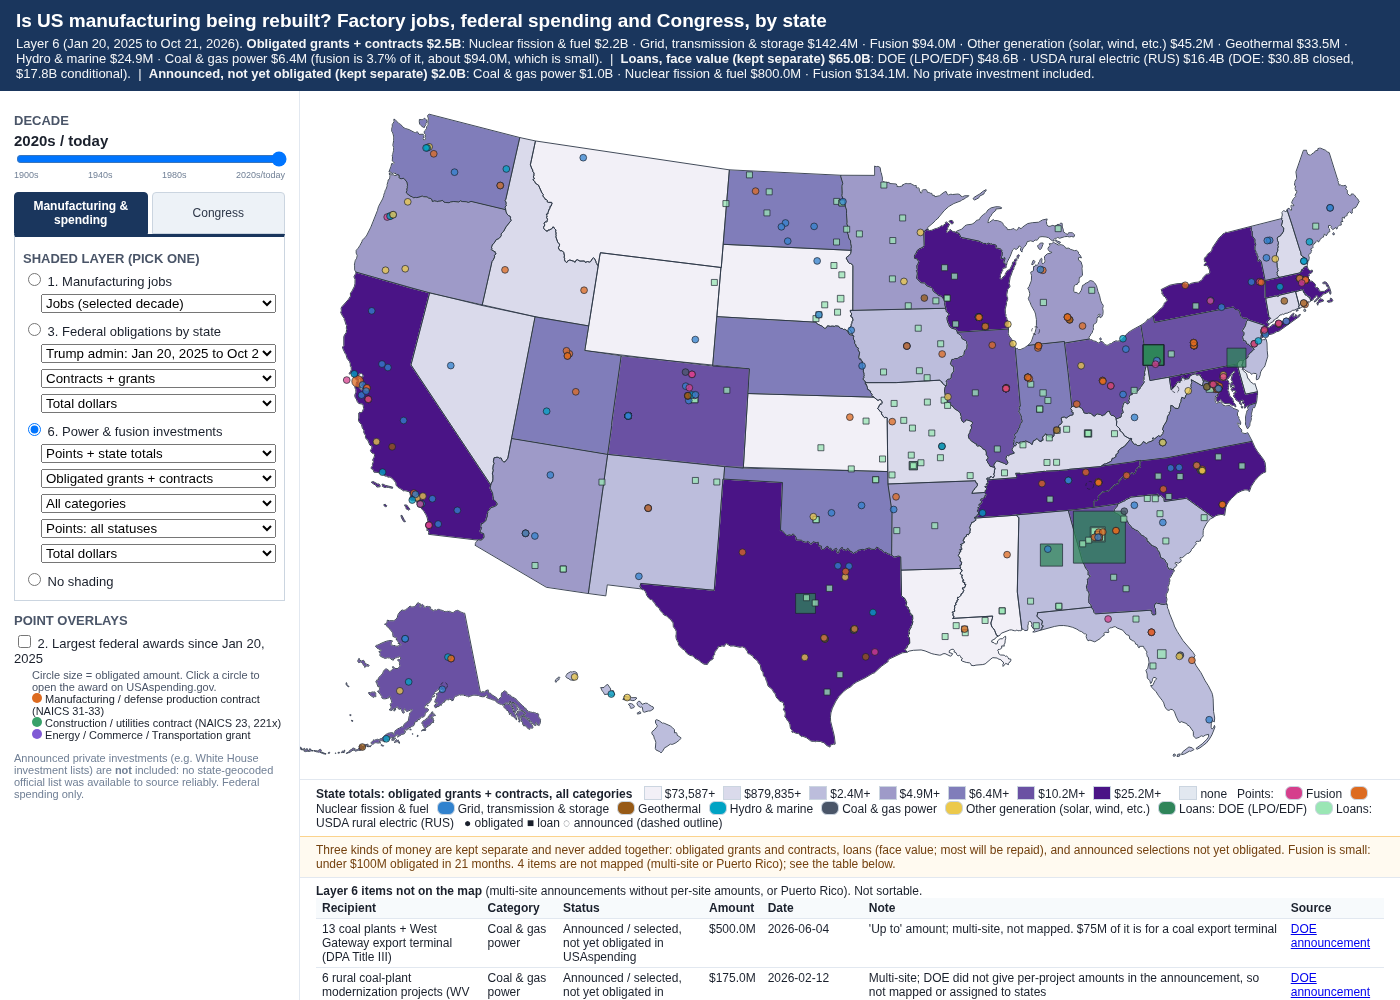
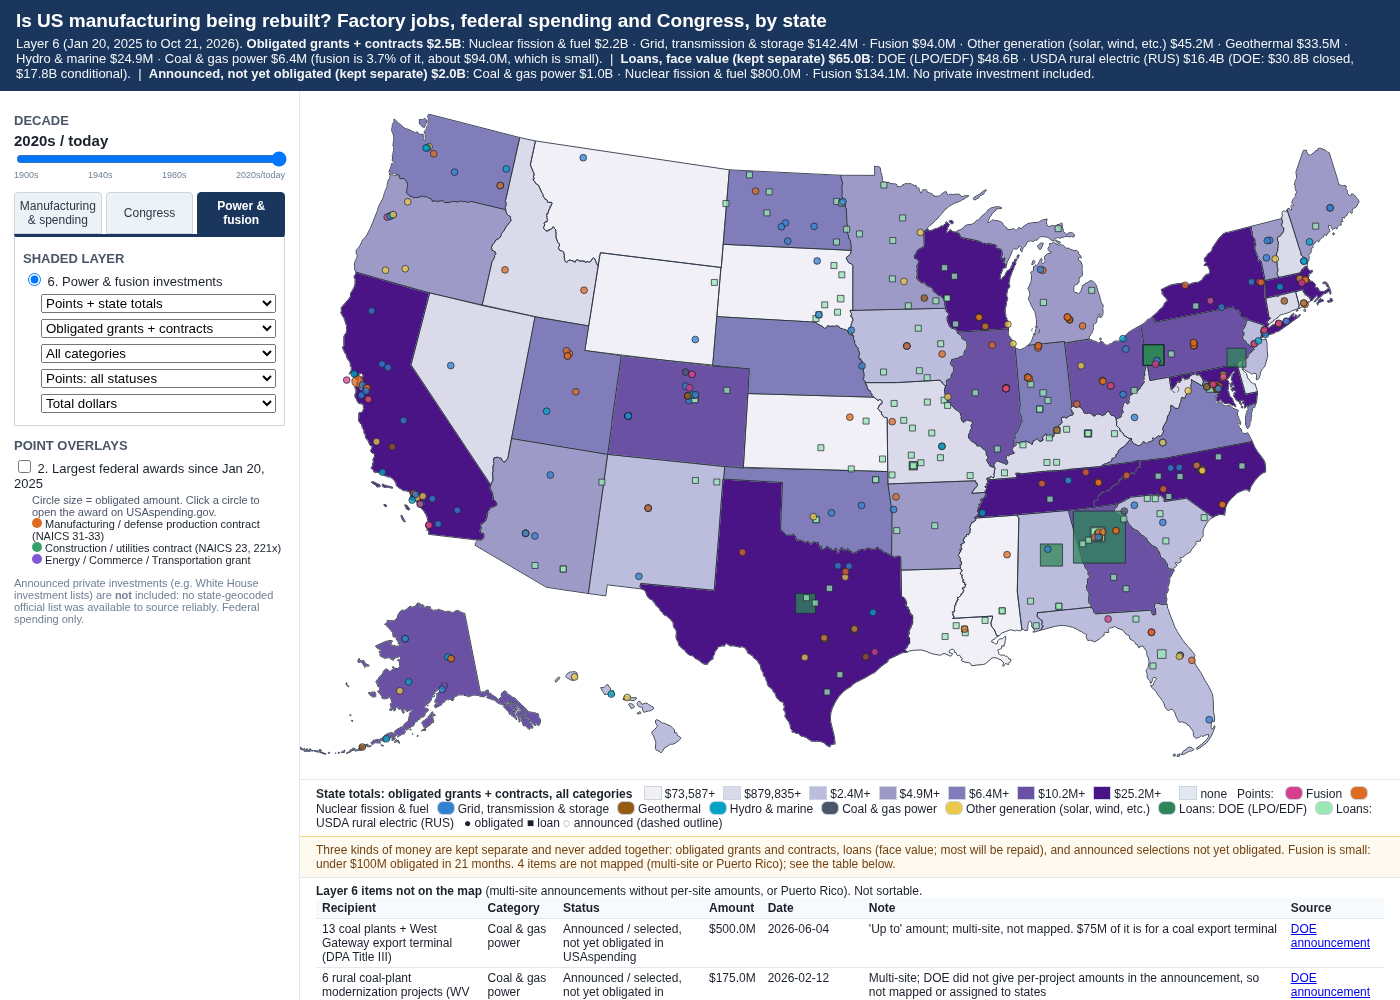
Move Power & fusion (Layer 6) to its own tab

Changed region(s): [[0.0, 0.186, 0.215, 0.806]]

diff --git a/build/template.html b/build/template.html
@@ -49,7 +49,7 @@ select{width:100%;margin:2px 0 4px}
  <div id="decadeLbl"></div>
  <input type="range" id="decade" min="1900" max="2020" step="10" value="2020">
  <div id="ticks"><span>1900s</span><span>1940s</span><span>1980s</span><span>2020s/today</span></div>
- <div id="tabs"><button type="button" class="tab active" data-tab="mfg" title="Manufacturing jobs, federal spending, and power &amp; fusion investments">Manufacturing &amp; spending</button><button type="button" class="tab" data-tab="congress" title="US Senate and House party control by state and district">Congress</button></div>
+ <div id="tabs"><button type="button" class="tab active" data-tab="mfg" title="Manufacturing jobs and federal spending">Manufacturing &amp; spending</button><button type="button" class="tab" data-tab="congress" title="US Senate and House party control by state and district">Congress</button><button type="button" class="tab" data-tab="power" title="Power &amp; fusion investments since Jan 20, 2025 (Layer 6)">Power &amp; fusion</button></div>
  <div class="tabpane" id="tab-mfg">
  <h3>Shaded layer (pick one)</h3>
  <label><input type="radio" name="layer" value="mfg" checked> 1. Manufacturing jobs</label>
@@ -62,13 +62,6 @@ select{width:100%;margin:2px 0 4px}
    <select id="period"><option value="trump2">Trump admin: Jan 20, 2025 to Oct 21, 2026</option><option value="2020pre">Comparison: Jan 1, 2020 to Jan 19, 2025</option></select>
    <select id="measure"><option value="contracts_plus_grants">Contracts + grants</option><option value="contracts">Contracts only</option><option value="grants">Grants only</option><option value="all_award_types">All award types (incl. direct payments, loans)</option></select>
    <select id="scale"><option value="total">Total dollars</option><option value="percap">Per capita</option><option value="permonth">Dollars per month (compare periods)</option></select></div>
- <label id="pwLbl"><input type="radio" name="layer" value="power"> 6. Power &amp; fusion investments</label>
- <div id="powerOpts" style="margin-left:18px">
-   <select id="pwView" title="Points only, or points plus a per-state choropleth"><option value="both">Points + state totals</option><option value="points">Points only</option><option value="state">State totals only</option></select>
-   <select id="pwMeasure" title="Which money the state shading sums; the three are never added together"><option value="obl">Obligated grants + contracts</option><option value="loan">Loans (face value)</option><option value="ann">Announced, not yet obligated</option></select>
-   <select id="pwCat" title="Filter points and state totals by category"><option value="all">All categories</option></select>
-   <select id="pwPts" title="Which award statuses to show as points"><option value="all">Points: all statuses</option><option value="obl">Points: obligated only</option><option value="loan">Points: loans only</option><option value="ann">Points: announced only</option></select>
-   <select id="pwScale" title="State totals in dollars or per person"><option value="total">Total dollars</option><option value="percap">Per capita</option></select></div>
  <label><input type="radio" name="layer" value="none"> No shading</label>
  </div>
  <div class="tabpane" id="tab-congress" style="display:none">
@@ -77,6 +70,16 @@ select{width:100%;margin:2px 0 4px}
  <label><input type="radio" name="layer" value="house"> 5. US House, state delegations</label>
  <label id="cdLbl"><input type="radio" name="layer" value="cds"> 5b. US House, by district (119th)</label>
  <label><input type="radio" name="layer" value="none" data-tab="congress"> No shading</label>
+ </div>
+ <div class="tabpane" id="tab-power" style="display:none">
+ <h3>Shaded layer</h3>
+ <label id="pwLbl"><input type="radio" name="layer" value="power"> 6. Power &amp; fusion investments</label>
+ <div id="powerOpts" style="margin-left:18px">
+   <select id="pwView" title="Points only, or points plus a per-state choropleth"><option value="both">Points + state totals</option><option value="points">Points only</option><option value="state">State totals only</option></select>
+   <select id="pwMeasure" title="Which money the state shading sums; the three are never added together"><option value="obl">Obligated grants + contracts</option><option value="loan">Loans (face value)</option><option value="ann">Announced, not yet obligated</option></select>
+   <select id="pwCat" title="Filter points and state totals by category"><option value="all">All categories</option></select>
+   <select id="pwPts" title="Which award statuses to show as points"><option value="all">Points: all statuses</option><option value="obl">Points: obligated only</option><option value="loan">Points: loans only</option><option value="ann">Points: announced only</option></select>
+   <select id="pwScale" title="State totals in dollars or per person"><option value="total">Total dollars</option><option value="percap">Per capita</option></select></div>
  </div>
  <h3>Point overlays</h3>
  <label id="ptLbl"><input type="checkbox" id="points" checked> 2. Largest federal awards since Jan 20, 2025</label>
@@ -258,13 +261,13 @@ function hideTip(){tip.style("display","none")}
 states.on("mousemove",(e,d)=>showTip(e,tipFn(d.properties.STUSPS))).on("mouseout",hideTip);
 circ.on("mousemove",(e,d)=>showTip(e,`<b>${d.recipient}</b><br>${d.agency}${d.sub_agency&&d.sub_agency!=d.agency?" / "+d.sub_agency:""}<br>Obligated: <b>${money(d.amount_obligated)}</b><br>Signed: ${d.date_signed||"n/a"}${d.period_start?" · period start "+d.period_start:""}<br>${d.pop_city||d.pop_county||""}, ${d.pop_state} ${d.pop_zip5||""} (${d.geocode})<br>${d.category}${d.naics?" · NAICS "+d.naics:""}<br><span style="font-size:11px">${d.description}</span><br><i>Award ${d.award_id}. Click to open on USAspending.gov</i>`)).on("mouseout",hideTip);
 // init from hash
-let curTab="mfg"; const CONG=["senate","house","cds"]; const lastLayer={mfg:"mfg",congress:"senate"};
+let curTab="mfg"; const CONG=["senate","house","cds"]; const TAB_OF=L=>CONG.includes(L)?"congress":L=="power"?"power":"mfg"; const lastLayer={mfg:"mfg",congress:"senate",power:"power"};
 function setTab(t,keepLayer){curTab=t;d3.selectAll("#tabs button").classed("active",function(){return this.dataset.tab==t});
- d3.select("#tab-mfg").style("display",t=="mfg"?null:"none");d3.select("#tab-congress").style("display",t=="congress"?null:"none");
- if(!keepLayer){const cur=d3.select("input[name=layer]:checked").property("value");const inTab=t=="congress"?CONG.includes(cur):!CONG.includes(cur);
+ ["mfg","congress","power"].forEach(x=>d3.select("#tab-"+x).style("display",t==x?null:"none"));
+ if(!keepLayer){const cur=d3.select("input[name=layer]:checked").property("value");const inTab=TAB_OF(cur)==t;
   if(!(inTab&&cur!="none"))d3.select(`#tab-${t} input[name=layer][value=${lastLayer[t]}]`).property("checked",true);}}
 d3.selectAll("#tabs button").on("click",function(){const cur=d3.select("input[name=layer]:checked").property("value");if(cur!="none")lastLayer[curTab]=cur;setTab(this.dataset.tab);render()});
-const h=st(); if(h.get("layer")){const L=h.get("layer");const t=h.get("tab")||(CONG.includes(L)?"congress":"mfg");setTab(t,true);d3.select(`#tab-${t} input[name=layer][value=${L}]`).property("checked",true)}
+const h=st(); if(h.get("layer")){const L=h.get("layer");let t=h.get("tab");if(!t||(L!="none"&&TAB_OF(L)!=t)||d3.select(`#tab-${t} input[name=layer][value=${L}]`).empty())t=TAB_OF(L);setTab(t,true);d3.select(`#tab-${t} input[name=layer][value=${L}]`).property("checked",true)}
 ["decade","mfgMode:mode","period","measure","scale","pwView","pwMeasure","pwCat","pwPts","pwScale"].forEach(k=>{const[id,key]=k.split(":");const v=h.get(key||id);if(v)d3.select("#"+id).property("value",v)});
 if(h.get("points")=="0")d3.select("#points").property("checked",false);
 d3.selectAll("input,select").on("input change",render); render();

diff --git a/index.html b/index.html
@@ -49,7 +49,7 @@ select{width:100%;margin:2px 0 4px}
  <div id="decadeLbl"></div>
  <input type="range" id="decade" min="1900" max="2020" step="10" value="2020">
  <div id="ticks"><span>1900s</span><span>1940s</span><span>1980s</span><span>2020s/today</span></div>
- <div id="tabs"><button type="button" class="tab active" data-tab="mfg" title="Manufacturing jobs, federal spending, and power &amp; fusion investments">Manufacturing &amp; spending</button><button type="button" class="tab" data-tab="congress" title="US Senate and House party control by state and district">Congress</button></div>
+ <div id="tabs"><button type="button" class="tab active" data-tab="mfg" title="Manufacturing jobs and federal spending">Manufacturing &amp; spending</button><button type="button" class="tab" data-tab="congress" title="US Senate and House party control by state and district">Congress</button><button type="button" class="tab" data-tab="power" title="Power &amp; fusion investments since Jan 20, 2025 (Layer 6)">Power &amp; fusion</button></div>
  <div class="tabpane" id="tab-mfg">
  <h3>Shaded layer (pick one)</h3>
  <label><input type="radio" name="layer" value="mfg" checked> 1. Manufacturing jobs</label>
@@ -62,13 +62,6 @@ select{width:100%;margin:2px 0 4px}
    <select id="period"><option value="trump2">Trump admin: Jan 20, 2025 to Oct 21, 2026</option><option value="2020pre">Comparison: Jan 1, 2020 to Jan 19, 2025</option></select>
    <select id="measure"><option value="contracts_plus_grants">Contracts + grants</option><option value="contracts">Contracts only</option><option value="grants">Grants only</option><option value="all_award_types">All award types (incl. direct payments, loans)</option></select>
    <select id="scale"><option value="total">Total dollars</option><option value="percap">Per capita</option><option value="permonth">Dollars per month (compare periods)</option></select></div>
- <label id="pwLbl"><input type="radio" name="layer" value="power"> 6. Power &amp; fusion investments</label>
- <div id="powerOpts" style="margin-left:18px">
-   <select id="pwView" title="Points only, or points plus a per-state choropleth"><option value="both">Points + state totals</option><option value="points">Points only</option><option value="state">State totals only</option></select>
-   <select id="pwMeasure" title="Which money the state shading sums; the three are never added together"><option value="obl">Obligated grants + contracts</option><option value="loan">Loans (face value)</option><option value="ann">Announced, not yet obligated</option></select>
-   <select id="pwCat" title="Filter points and state totals by category"><option value="all">All categories</option></select>
-   <select id="pwPts" title="Which award statuses to show as points"><option value="all">Points: all statuses</option><option value="obl">Points: obligated only</option><option value="loan">Points: loans only</option><option value="ann">Points: announced only</option></select>
-   <select id="pwScale" title="State totals in dollars or per person"><option value="total">Total dollars</option><option value="percap">Per capita</option></select></div>
  <label><input type="radio" name="layer" value="none"> No shading</label>
  </div>
  <div class="tabpane" id="tab-congress" style="display:none">
@@ -77,6 +70,16 @@ select{width:100%;margin:2px 0 4px}
  <label><input type="radio" name="layer" value="house"> 5. US House, state delegations</label>
  <label id="cdLbl"><input type="radio" name="layer" value="cds"> 5b. US House, by district (119th)</label>
  <label><input type="radio" name="layer" value="none" data-tab="congress"> No shading</label>
+ </div>
+ <div class="tabpane" id="tab-power" style="display:none">
+ <h3>Shaded layer</h3>
+ <label id="pwLbl"><input type="radio" name="layer" value="power"> 6. Power &amp; fusion investments</label>
+ <div id="powerOpts" style="margin-left:18px">
+   <select id="pwView" title="Points only, or points plus a per-state choropleth"><option value="both">Points + state totals</option><option value="points">Points only</option><option value="state">State totals only</option></select>
+   <select id="pwMeasure" title="Which money the state shading sums; the three are never added together"><option value="obl">Obligated grants + contracts</option><option value="loan">Loans (face value)</option><option value="ann">Announced, not yet obligated</option></select>
+   <select id="pwCat" title="Filter points and state totals by category"><option value="all">All categories</option></select>
+   <select id="pwPts" title="Which award statuses to show as points"><option value="all">Points: all statuses</option><option value="obl">Points: obligated only</option><option value="loan">Points: loans only</option><option value="ann">Points: announced only</option></select>
+   <select id="pwScale" title="State totals in dollars or per person"><option value="total">Total dollars</option><option value="percap">Per capita</option></select></div>
  </div>
  <h3>Point overlays</h3>
  <label id="ptLbl"><input type="checkbox" id="points" checked> 2. Largest federal awards since Jan 20, 2025</label>
@@ -258,13 +261,13 @@ function hideTip(){tip.style("display","none")}
 states.on("mousemove",(e,d)=>showTip(e,tipFn(d.properties.STUSPS))).on("mouseout",hideTip);
 circ.on("mousemove",(e,d)=>showTip(e,`<b>${d.recipient}</b><br>${d.agency}${d.sub_agency&&d.sub_agency!=d.agency?" / "+d.sub_agency:""}<br>Obligated: <b>${money(d.amount_obligated)}</b><br>Signed: ${d.date_signed||"n/a"}${d.period_start?" · period start "+d.period_start:""}<br>${d.pop_city||d.pop_county||""}, ${d.pop_state} ${d.pop_zip5||""} (${d.geocode})<br>${d.category}${d.naics?" · NAICS "+d.naics:""}<br><span style="font-size:11px">${d.description}</span><br><i>Award ${d.award_id}. Click to open on USAspending.gov</i>`)).on("mouseout",hideTip);
 // init from hash
-let curTab="mfg"; const CONG=["senate","house","cds"]; const lastLayer={mfg:"mfg",congress:"senate"};
+let curTab="mfg"; const CONG=["senate","house","cds"]; const TAB_OF=L=>CONG.includes(L)?"congress":L=="power"?"power":"mfg"; const lastLayer={mfg:"mfg",congress:"senate",power:"power"};
 function setTab(t,keepLayer){curTab=t;d3.selectAll("#tabs button").classed("active",function(){return this.dataset.tab==t});
- d3.select("#tab-mfg").style("display",t=="mfg"?null:"none");d3.select("#tab-congress").style("display",t=="congress"?null:"none");
- if(!keepLayer){const cur=d3.select("input[name=layer]:checked").property("value");const inTab=t=="congress"?CONG.includes(cur):!CONG.includes(cur);
+ ["mfg","congress","power"].forEach(x=>d3.select("#tab-"+x).style("display",t==x?null:"none"));
+ if(!keepLayer){const cur=d3.select("input[name=layer]:checked").property("value");const inTab=TAB_OF(cur)==t;
   if(!(inTab&&cur!="none"))d3.select(`#tab-${t} input[name=layer][value=${lastLayer[t]}]`).property("checked",true);}}
 d3.selectAll("#tabs button").on("click",function(){const cur=d3.select("input[name=layer]:checked").property("value");if(cur!="none")lastLayer[curTab]=cur;setTab(this.dataset.tab);render()});
-const h=st(); if(h.get("layer")){const L=h.get("layer");const t=h.get("tab")||(CONG.includes(L)?"congress":"mfg");setTab(t,true);d3.select(`#tab-${t} input[name=layer][value=${L}]`).property("checked",true)}
+const h=st(); if(h.get("layer")){const L=h.get("layer");let t=h.get("tab");if(!t||(L!="none"&&TAB_OF(L)!=t)||d3.select(`#tab-${t} input[name=layer][value=${L}]`).empty())t=TAB_OF(L);setTab(t,true);d3.select(`#tab-${t} input[name=layer][value=${L}]`).property("checked",true)}
 ["decade","mfgMode:mode","period","measure","scale","pwView","pwMeasure","pwCat","pwPts","pwScale"].forEach(k=>{const[id,key]=k.split(":");const v=h.get(key||id);if(v)d3.select("#"+id).property("value",v)});
 if(h.get("points")=="0")d3.select("#points").property("checked",false);
 d3.selectAll("input,select").on("input change",render); render();
